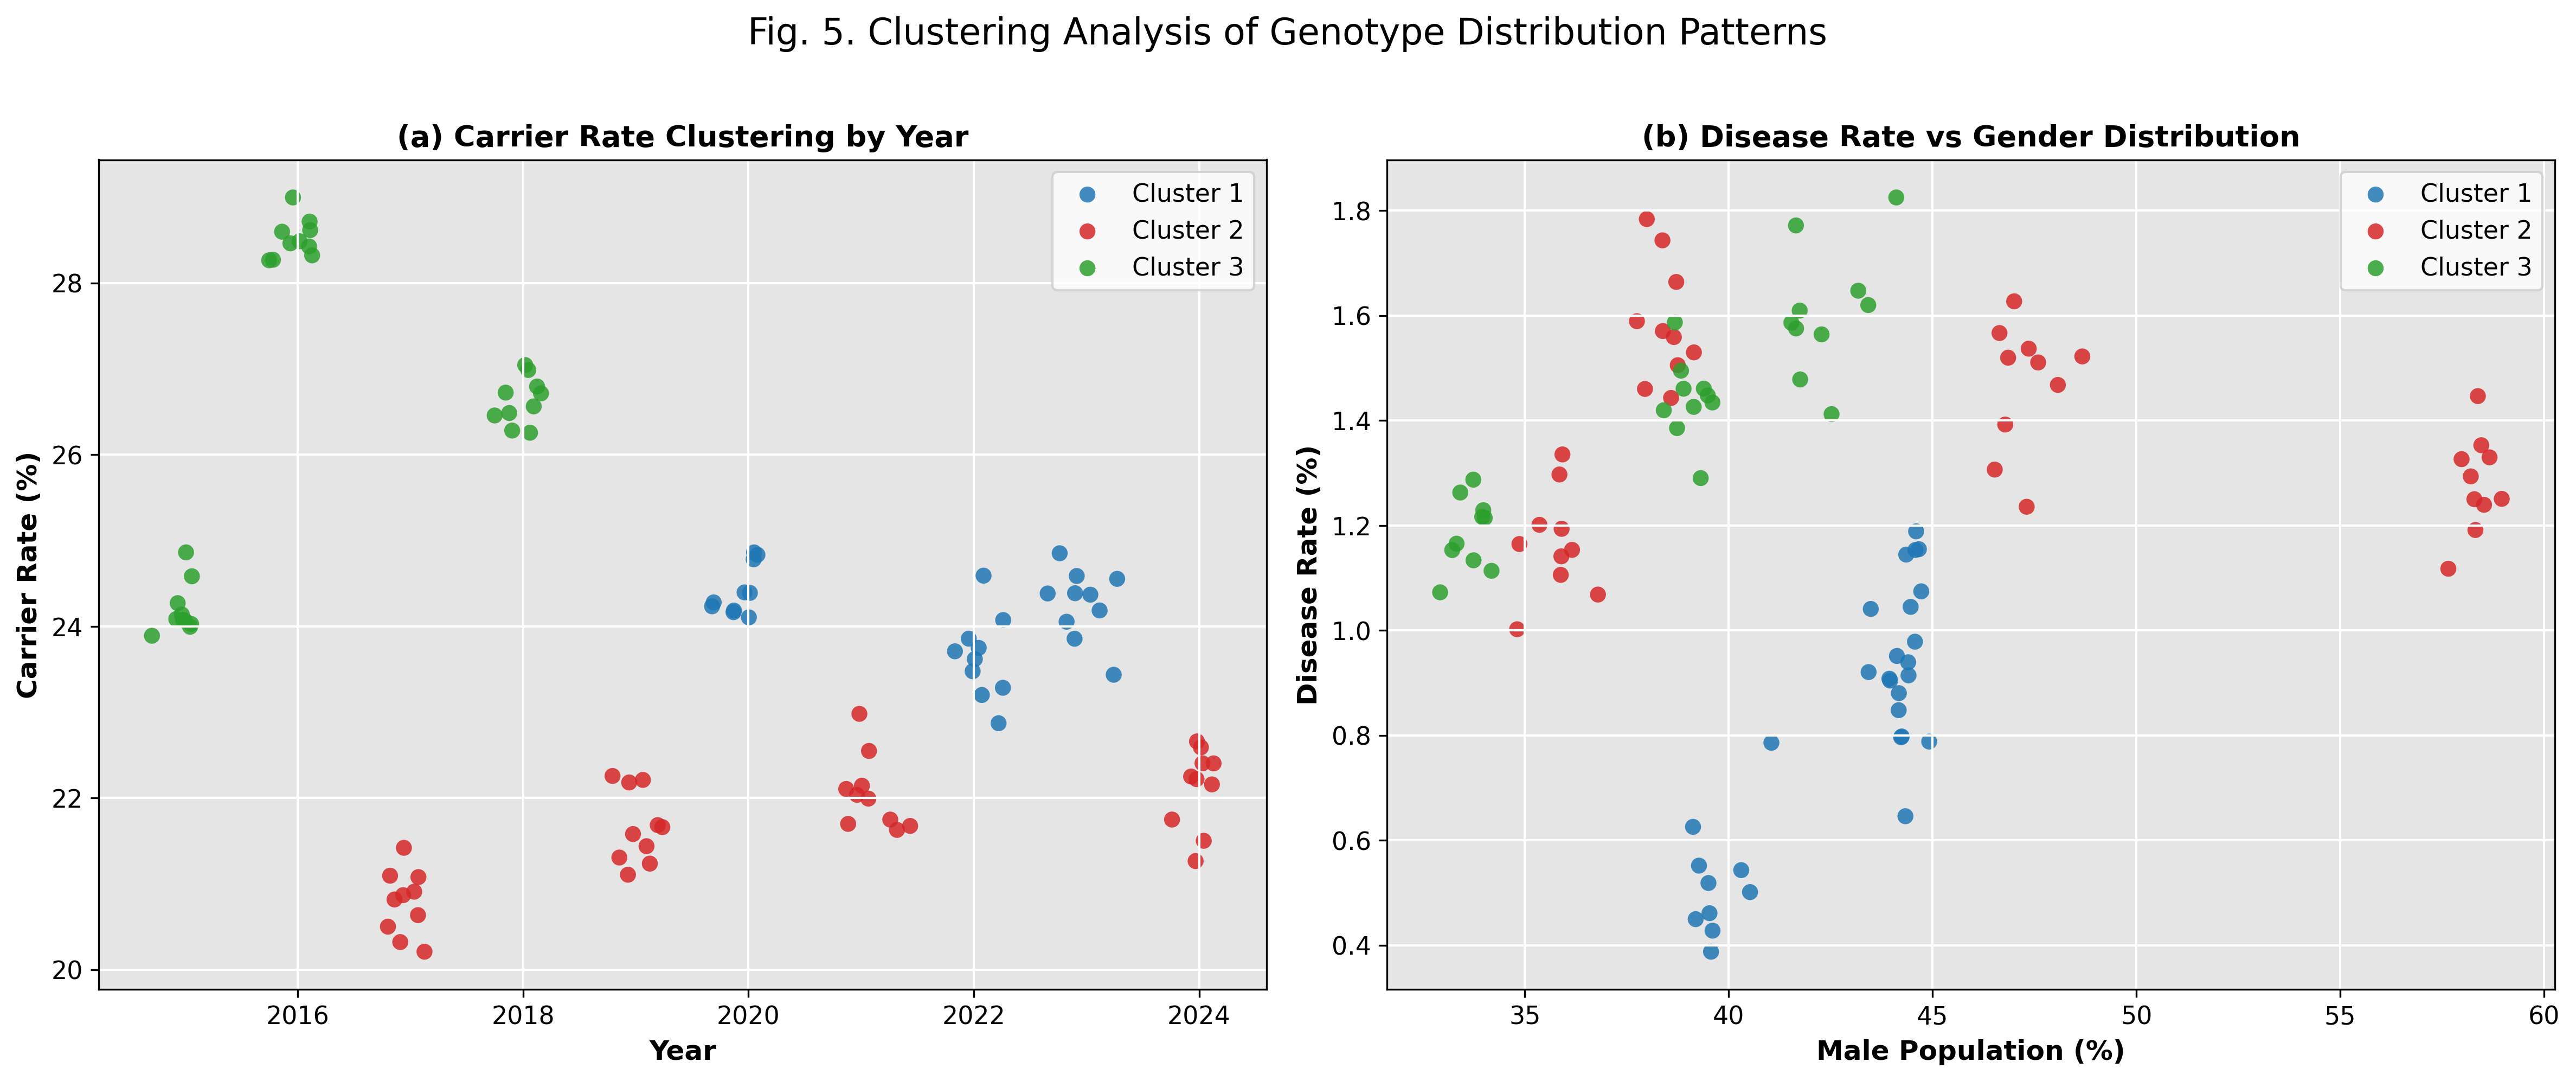
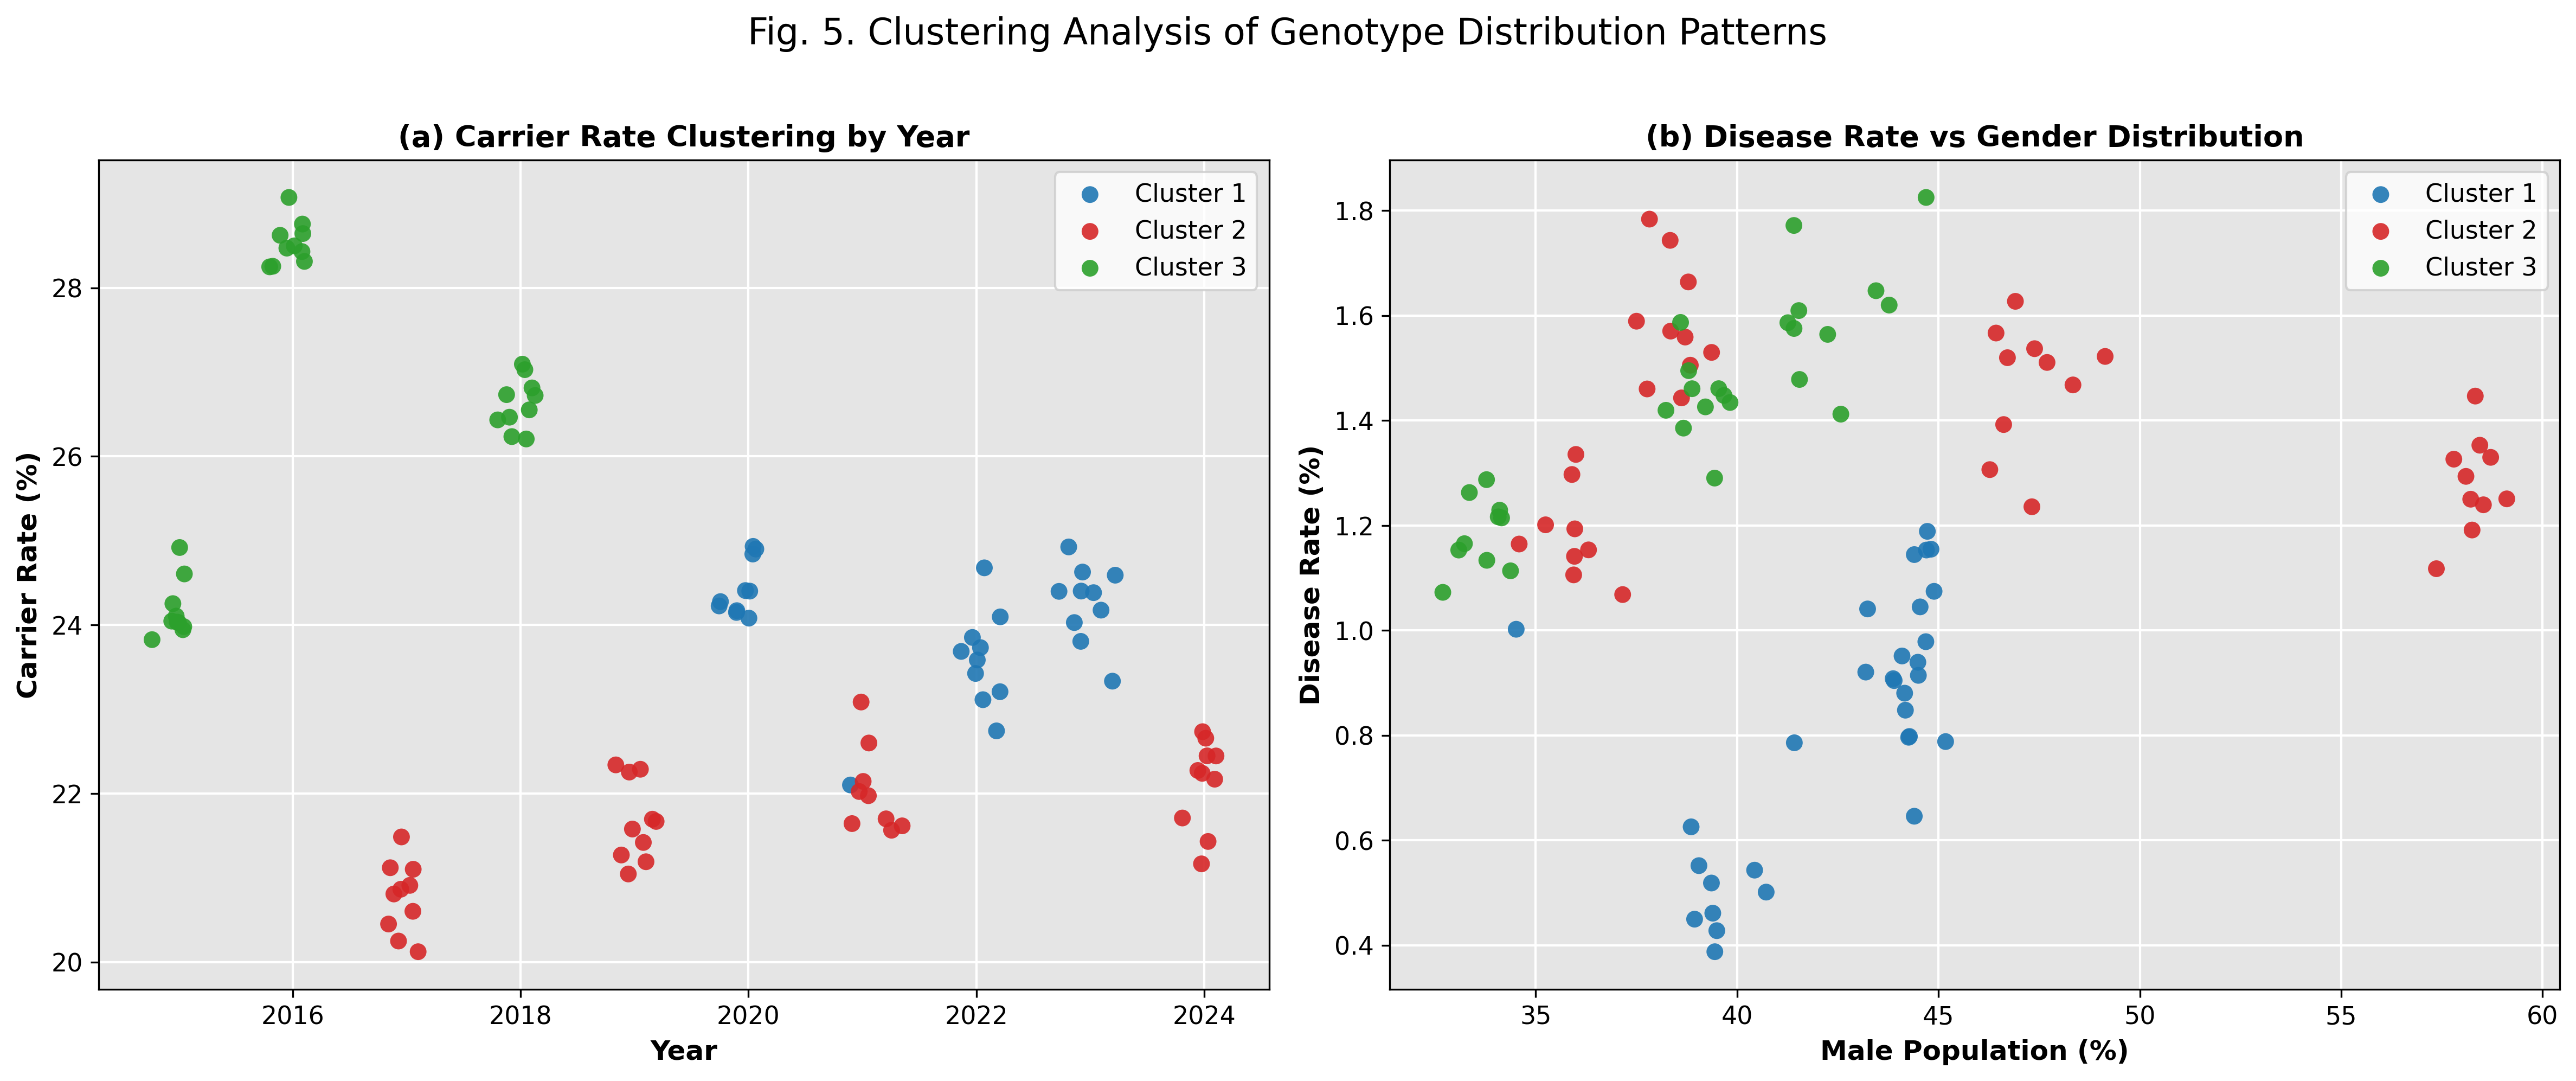
Add DATASET_VALIDITY and FIGURES_PROVENANCE files

diff --git a/docs/DATASET_VALIDITY.md b/docs/DATASET_VALIDITY.md
@@ -1,0 +1,125 @@
+# Dataset Validity and Provenance
+
+This document describes the source, integrity, and validity of the analytical dataset
+used in the manuscript *Ten-Year Haemoglobin Genotype Surveillance in a Nigerian
+University Cohort (Bowen University, 2015–2024)*. It is provided to support the
+editorial requirement that the validity of the datasets used in the study be
+demonstrated and the access links provided.
+
+**Repository:** https://github.com/chukwudumebiughonu/haemoglobin-genotype-surveillance
+**Archived release (DOI):** https://doi.org/10.5281/zenodo.20445528
+
+---
+
+## Source of the data
+
+The dataset comprises de-identified haemoglobin genotype screening records of newly
+admitted students at Bowen University, Iwo, Osun State, Nigeria, collected as part of
+the institution's routine pre-matriculation medical screening between 2015 and 2024.
+Genotype was determined by haemoglobin electrophoresis at the Bowen University Medical
+Centre. Sex and year of screening were recorded as part of the same screening exercise.
+
+The dataset was obtained from institutional screening archives. The records contain no
+direct personal identifiers (no names, no admission numbers, no addresses, no dates of
+birth). Sex is recorded as M or F; year is recorded as the four-digit screening year;
+genotype is recorded as one of six categories (HbAA, HbAS, HbAC, HbSS, HbSC, HbCC).
+
+---
+
+## Files released
+
+The release contains both raw and processed forms of the data so that every step of the
+cleaning pipeline is auditable:
+
+| File | Description | Rows |
+|---|---|---|
+| `data/raw/Genotype_2015.csv` … `Genotype_2024.csv` | Annual screening exports as received | varies per year |
+| `data/processed/processed_genotype_data.csv` | Cleaned and harmonised analytical dataset | 8,890 |
+| `data/DATA_DICTIONARY.md` | Variable definitions, codings, and value ranges | — |
+
+Combined raw rows: 8,890. No records were excluded between the raw exports and the
+analytical dataset.
+
+---
+
+## Variables in the analytical dataset
+
+| Variable | Type | Allowed values |
+|---|---|---|
+| `ID` | string | Internal record id (no link to personal identity) |
+| `Sex` | string | `M` or `F` |
+| `Genotype` | string | `AA`, `AS`, `AC`, `SS`, `SC`, `CC` |
+| `Year` | integer | 2015 to 2024 |
+| `Clinical_Category` | string | `Normal` (AA), `Carrier` (AS, AC), `Disease` (SS, SC, CC) |
+
+The `Clinical_Category` field is derived directly from `Genotype` and is included for
+convenience in the descriptive and inferential analyses.
+
+---
+
+## Integrity checks performed
+
+The following quality checks were applied during the construction of the analytical
+dataset and are re-run as assertions in Notebook 01 each time the pipeline is executed.
+Failure of any assertion stops the pipeline:
+
+1. **Total record count.** The analytical dataset must contain 8,890 rows (the sum of
+   the annual exports).
+2. **Year coverage.** Every year from 2015 to 2024 inclusive must be present, with no
+   gaps and no spurious years.
+3. **Sex completeness.** The `Sex` field is complete in 100% of analytical rows and
+   takes only the values `M` or `F`.
+4. **Genotype completeness.** The `Genotype` field is complete in 100% of analytical
+   rows and takes only the six allowed values.
+5. **Clinical-category consistency.** Every record's `Clinical_Category` matches the
+   deterministic mapping from its `Genotype`.
+6. **Identifier completeness.** The `ID` field is present in 8,877 of 8,890 records;
+   the 13 records with missing `ID` are retained because all analytical fields are
+   complete for them, and no analysis depends on `ID`.
+
+These six checks are codified in Notebook 01 (`01_environment_and_loading.ipynb`) as
+Python `assert` statements; the notebook prints a confirmation line for each.
+
+---
+
+## Ethical and access considerations
+
+The screening dataset is de-identified at source. The raw annual exports and the
+processed analytical dataset are released alongside the analysis code in the public
+Zenodo archive (DOI above), under terms that permit re-use for academic and research
+purposes subject to the licence stated in the repository and to applicable institutional
+data-sharing agreements. No direct or indirect personal identifiers are released.
+
+---
+
+## Manuscript numbers reproducible from this dataset
+
+The following numeric findings reported in the manuscript are exactly reproducible from
+the released dataset via the published notebook sequence:
+
+- Cohort size: **n = 8,890** records; female 57.57%, male 42.43%.
+- Overall genotype distribution: HbAA 75.11%, HbAS 20.40%, HbAC 3.28%, HbSS 0.71%,
+  HbSC 0.47%, HbCC 0.02%.
+- Clinical categories: Normal 75.11%, Carrier 23.69%, Disease 1.20%.
+- OLS trends (slope per year, R-squared, p-value):
+  HbAA +0.3085, 0.16, 0.2512; Carrier −0.2782, 0.13, 0.3060;
+  Disease −0.0303, 0.07, 0.4512.
+- Chi-square tests:
+  Sex × Genotype: χ² = 1.4864, df = 5, p = 0.9146.
+  Sex × Clinical Category: χ² = 0.3891, df = 2, p = 0.8232.
+- K-means clustering (k = 3, standardised carrier rate, disease rate, year):
+  Stabilisation (2020, 2022, 2023); Transition (2017, 2019, 2021, 2024);
+  High-burden (2015, 2016, 2018).
+
+Any reader can reproduce these numbers in under one minute by running the notebook
+sequence from a clean Python environment.
+
+---
+
+## Software environment
+
+The full software environment is pinned in `requirements.txt`. Key versions: Python
+3.11, pandas 2.0.3, numpy 1.24.3, scipy 1.11.1, scikit-learn 1.3.0, matplotlib 3.7.2,
+seaborn 0.12.2, statsmodels 0.14.0, jupyterlab 4.0.3, openpyxl 3.1.2.
+
+All random seeds are fixed (`random_state = 42`). The pipeline is deterministic.

diff --git a/docs/FIGURES_PROVENANCE.md b/docs/FIGURES_PROVENANCE.md
@@ -1,0 +1,75 @@
+# Figures and Tables Provenance
+
+This document maps every figure and table presented in the manuscript and the
+supplementary materials to the exact notebook, the exact source data file, and the
+rendering code that produced it. Every figure and table is reproducible end-to-end by
+running the notebook sequence (01 → 06) from a clean kernel against the analytical
+dataset `data/processed/processed_genotype_data.csv`.
+
+**Repository:** https://github.com/chukwudumebiughonu/haemoglobin-genotype-surveillance
+**Archived snapshot (DOI):** https://doi.org/10.5281/zenodo.20445528
+
+---
+
+## Reproducibility chain
+
+```
+data/raw/Genotype_YYYY.csv                       (10 annual screening exports, 2015-2024)
+        │
+        ▼
+data/processed/processed_genotype_data.csv       (Notebook 01 — cleaning & harmonisation)
+        │
+        ▼
+outputs/tables/02_*.csv                          (Notebook 02 — descriptive tables)
+        │
+        ▼
+outputs/figures/*.{png,pdf}                      (Notebooks 03-06 — figures, 300 DPI + vector PDF)
+```
+
+---
+
+## Figures cited in the manuscript
+
+| Manuscript label | File in repository | Notebook | Source table / data | Description |
+|---|---|---|---|---|
+| **Figure 1** | `outputs/figures/genotype_distribution_by_year.png` | 03 | `outputs/tables/02_genotype_percentages_by_year.csv` | Stacked 100% bar of the six genotypes across 2015-2024 |
+| **Figure S1** | `outputs/figures/clinical_category_trends.png` | 04 | `outputs/tables/02_clinical_category_percentages_by_year.csv` | Annual prevalence of Normal, Carrier, and Disease categories, including the disease range 0.5%-1.7% cited in Results |
+| **Figure S2** | `outputs/figures/genotype_distribution_by_sex.png` | 03 | `outputs/tables/02_genotype_percentages_by_sex.csv` | Grouped bar of genotype prevalence by sex |
+| **Figure S3** | `outputs/figures/figure_6_clustering_3d.png` | 05 | yearly aggregates from `processed_genotype_data.csv` | Three-dimensional clustering visualisation (Year × Carrier Rate × Disease Rate) confirming the three temporal periods |
+
+---
+
+## Tables cited in the manuscript
+
+| Manuscript label | Source data / notebook | Description |
+|---|---|---|
+| **Table 1a / 1b** | Notebook 02; derived from `data/processed/processed_genotype_data.csv` | Sociodemographic and overall genotype-distribution summary of the n = 8,890 cohort |
+| **Table 2** | `outputs/tables/06_pearson_correlation_matrix.csv` (Notebook 06) | Pearson correlation values across the six study variables (Year, Genotype Severity, Clinical Severity, Male Proportion, Carrier Rate, Disease Rate) |
+| **Table 3** | `outputs/tables/05_cluster_summary.csv` (Notebook 05) | K-means cluster grouping: years, mean carrier rate, mean disease rate per cluster |
+
+---
+
+## Statistical outputs cited in-text
+
+Every numeric value reported in the Results section is reproducible from a CSV file in
+`outputs/tables/`:
+
+| Manuscript figure | Reproducible source |
+|---|---|
+| Sex × Genotype chi-square (χ² = 1.4864, df = 5, p = 0.9146) | `outputs/tables/04_chi_square_results.csv` (Notebook 04) |
+| Sex × Clinical Category chi-square (χ² = 0.3891, df = 2, p = 0.8232) | `outputs/tables/04_chi_square_results.csv` (Notebook 04) |
+| OLS trend regressions (slopes, R², p-values for HbAA, Carrier, Disease) | `outputs/tables/04_trend_regression_results.csv` (Notebook 04) |
+| k-means elbow (WCSS) and silhouette scores | `outputs/tables/05_elbow_silhouette.csv` (Notebook 05) |
+| Per-year cluster assignment | `outputs/tables/05_cluster_assignments.csv` (Notebook 05) |
+| Mean carrier and disease rate per cluster | `outputs/tables/05_cluster_summary.csv` (Notebook 05) |
+
+---
+
+## Reproducibility statement
+
+All figures are rendered deterministically. K-means clustering uses
+`random_state = 42`, `n_init = 10`, `max_iter = 300`, `tol = 1e-4`, with the standardised
+feature triple (Carrier Rate, Disease Rate, Year). The standardiser is `scikit-learn`'s
+`StandardScaler`. Library versions are pinned in `requirements.txt`. Running the
+notebooks in order from a clean kernel reproduces every figure file at 300 DPI PNG and
+vector PDF.